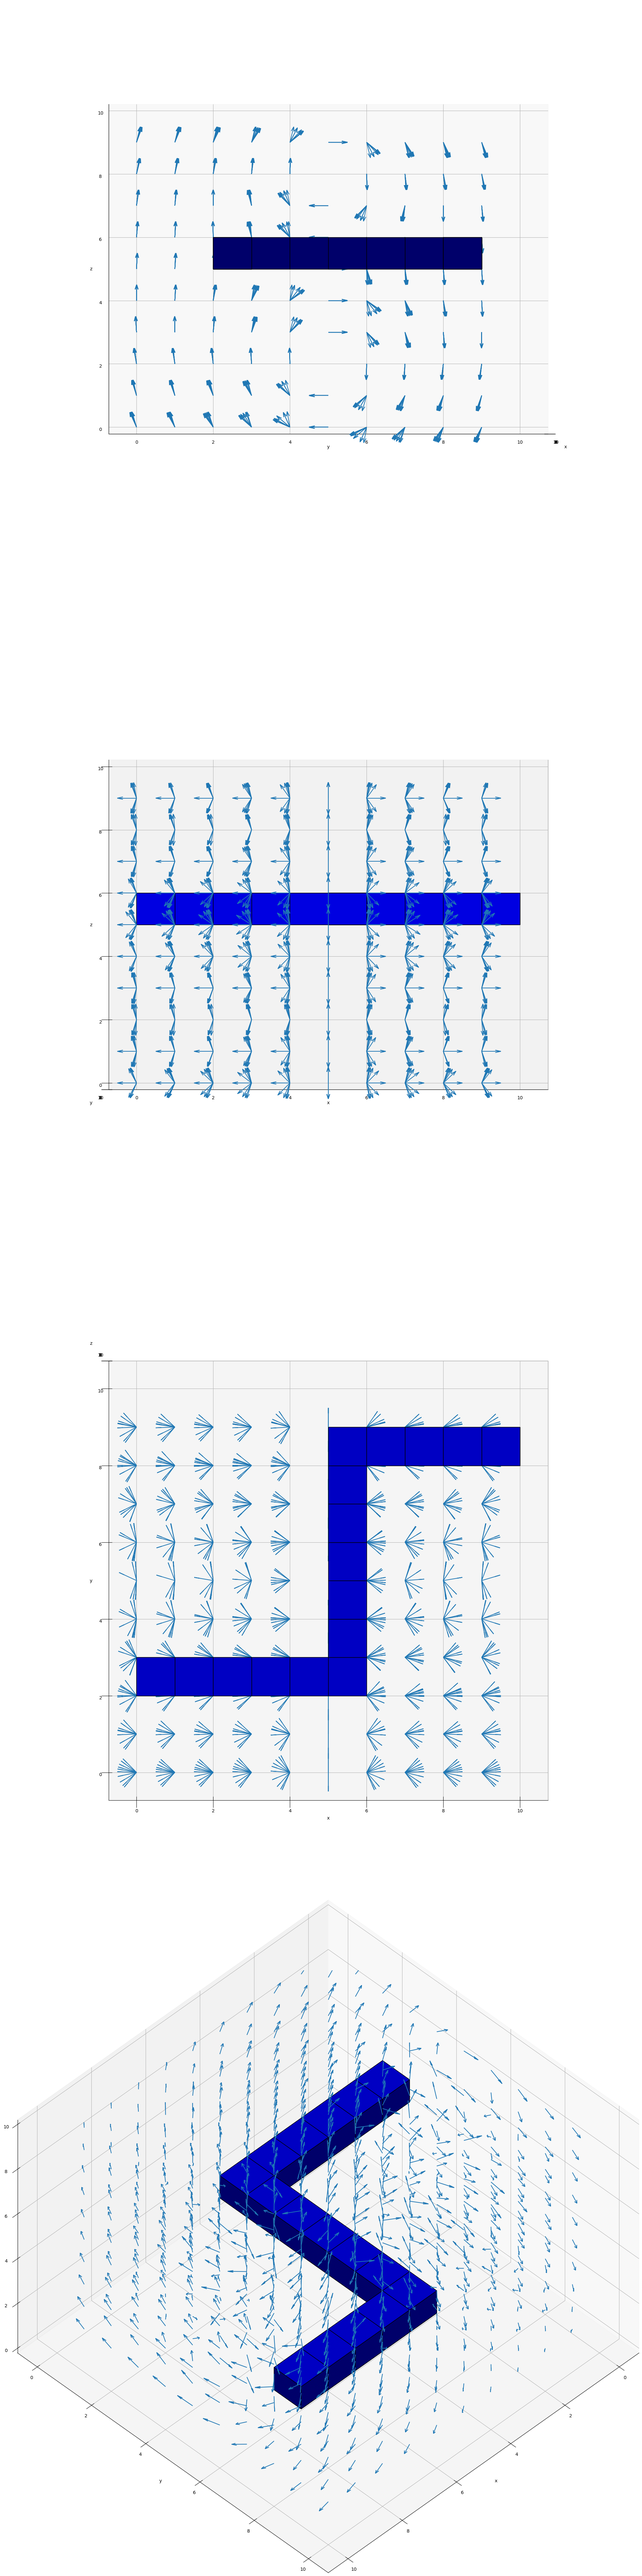
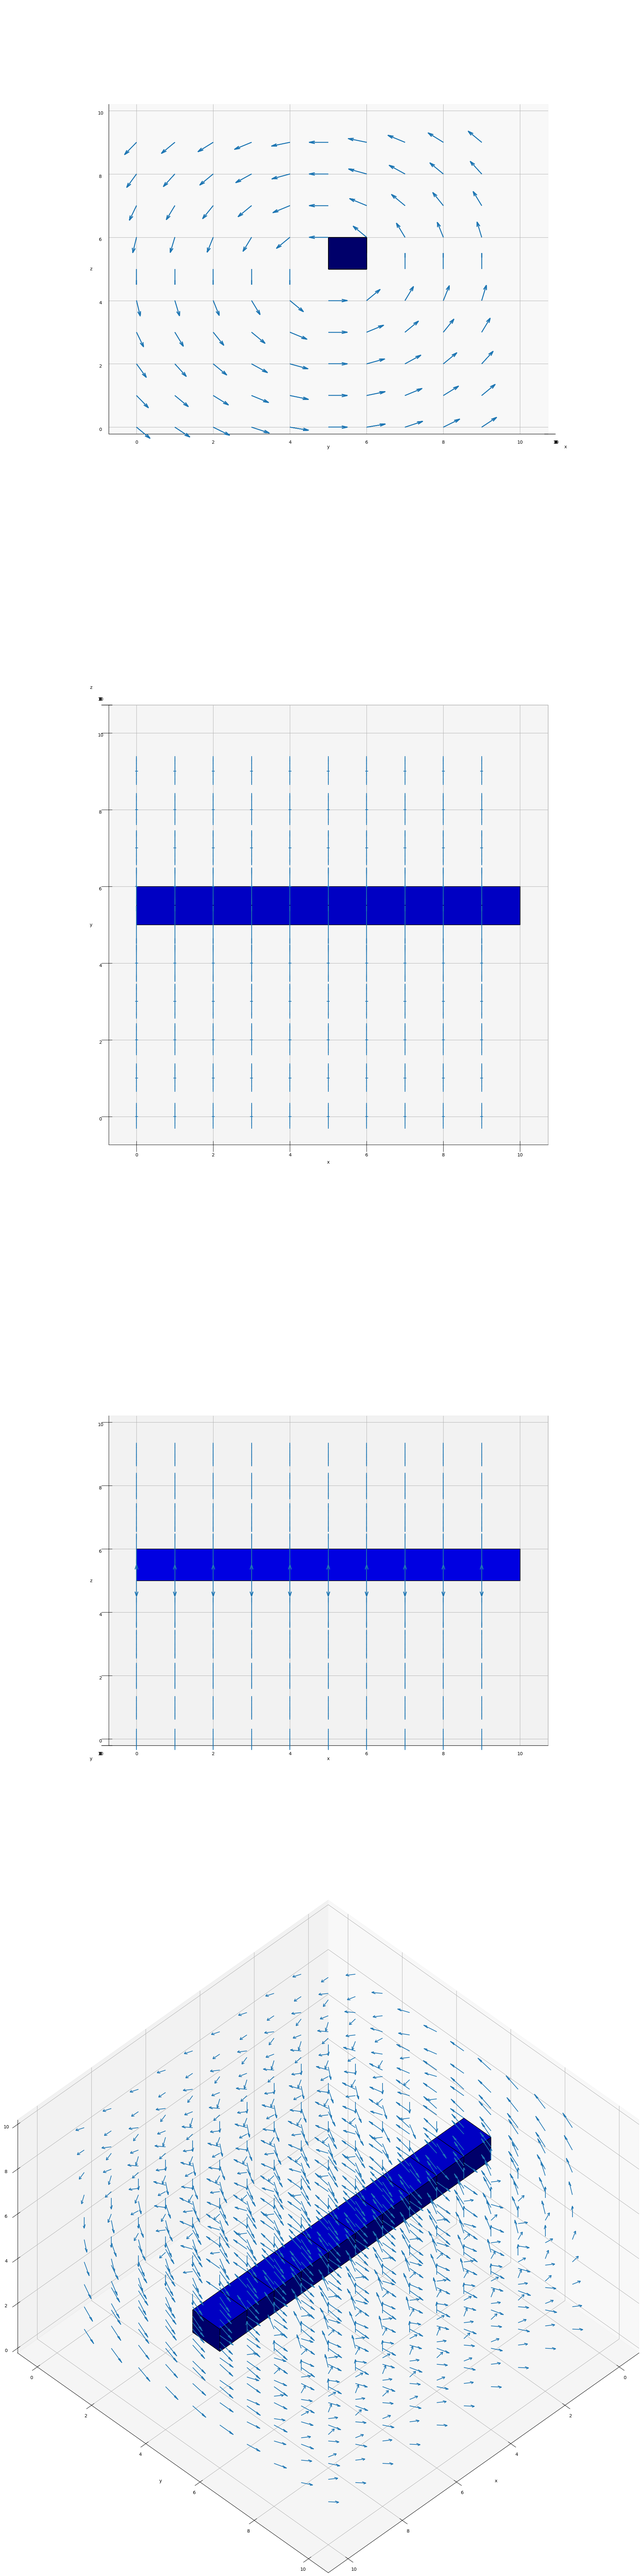
Built site for gh-pages

diff --git a/MagFieldSim.html b/MagFieldSim.html
@@ -201,6 +201,28 @@ c:\Users\Tech\Documents\Repos\MagFieldSim\Field.py:64: RuntimeWarning: invalid v
 </div>
 </div>
 </div>
+<div id="cell-4" class="cell" data-execution_count="2">
+<details class="code-fold">
+<summary>Code</summary>
+<div class="sourceCode cell-code" id="cb5"><pre class="sourceCode python code-with-copy"><code class="sourceCode python"><span id="cb5-1"><a href="#cb5-1" aria-hidden="true" tabindex="-1"></a><span class="im">import</span> Field</span>
+<span id="cb5-2"><a href="#cb5-2" aria-hidden="true" tabindex="-1"></a>f<span class="op">=</span> Field.Field(corners<span class="op">=</span>[[<span class="dv">0</span>,<span class="dv">5</span>],[<span class="dv">5</span>,<span class="dv">5</span>],[<span class="dv">5</span>,<span class="dv">10</span>]],curr<span class="op">=</span><span class="dv">1</span>)</span>
+<span id="cb5-3"><a href="#cb5-3" aria-hidden="true" tabindex="-1"></a></span>
+<span id="cb5-4"><a href="#cb5-4" aria-hidden="true" tabindex="-1"></a>f.setup_plot()</span>
+<span id="cb5-5"><a href="#cb5-5" aria-hidden="true" tabindex="-1"></a>f.plot_wire()</span>
+<span id="cb5-6"><a href="#cb5-6" aria-hidden="true" tabindex="-1"></a>f.plot_field()</span>
+<span id="cb5-7"><a href="#cb5-7" aria-hidden="true" tabindex="-1"></a>f.draw_plot()</span></code><button title="Copy to Clipboard" class="code-copy-button"><i class="bi"></i></button></pre></div>
+</details>
+<div class="cell-output cell-output-stdout">
+<pre><code>(10, 10, 10)</code></pre>
+</div>
+<div class="cell-output cell-output-display">
+<div>
+<figure class="figure">
+<p><img src="MagFieldSim_files/figure-html/cell-4-output-2.png" class="img-fluid figure-img"></p>
+</figure>
+</div>
+</div>
+</div>
 
 
 
